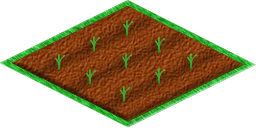
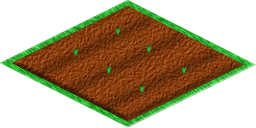
all crops + check bouton only if you have graine

diff --git a/Constant/js/class/Graine.js b/Constant/js/class/Graine.js
@@ -6,33 +6,53 @@ var Graines = (function() {
     var _nb;                //nombre de graine de ce type que le joueur dispose INT
     var _user_id;           //lien vers l'user a qui appartient la graine INT
     var _graines_spec_id;   //lien vers le bon type de graine INT
-     var _DB;
+    var _DB;
 
     function Graines(){
-            _DB = new DB();
+      _DB = new DB();
     };
 
-     Graines.prototype.buyGraine = function(nb, user_id, graines_spec_id, callback){
-         var connection = _DB.connection();
-         var query ='SELECT * FROM Graines WHERE user_id= ' + user_id + ' AND  graines_spec_id = ' + graines_spec_id + ';';
-          connection.query(query,function(err, row, fields) {
+    Graines.prototype.buyGraine = function(nb, user_id, graines_spec_id, callback){
+        var connection = _DB.connection();
+        var query ='SELECT * FROM Graines WHERE user_id= ' + user_id + ' AND  graines_spec_id = ' + graines_spec_id + ';';
+        connection.query(query,function(err, row, fields) {
             if (err) throw err;
-             if( typeof( row[0]) == "undefined"){
+            if( typeof( row[0]) == "undefined"){
                 var query = 'INSERT INTO Graines (nb,user_id, graines_spec_id) VALUES(' + nb + ',' + user_id + ','+ graines_spec_id +');';
                 connection.query(query,function(err, r, fields) {
-                if (err) throw err;
-                callback(true);
-              });
-
-             }else{
+                    if (err) throw err;
+                    callback(true);
+                });
+            }else{
                 connection.query('UPDATE Graines SET nb = nb + '+nb+' WHERE user_id = '+user_id +' AND graines_spec_id = ' +graines_spec_id+ ';' ,function(err, r, fields) {
-                            if(err) throw err;
-                            callback(true);
-                     });
+                    if(err) throw err;
+                    callback(true);
+                });
+            }
+        });
+    };
 
-                 }
-             });
-        };
+    Graines.prototype.checkGrainesOwned = function(user_id, callback){
+        var connection = _DB.connection();
+        var query ='SELECT * FROM Graines WHERE user_id= ' + user_id +';';
+            connection.query(query,function(err, row, fields) {
+                if (err) throw err;
+                var result = new Array();
+                var count = 0;
+                if(typeof(row[0]) != 'undefined'){
+                    for (var i = 0; i < row.length; i++) {
+                        if(row[i].nb > 0){
+                            result[count] = row[i].graines_spec_id+"_"+row[i].nb;
+                            count++;
+                        }
+                    };
+                    callback(result);
+                }else{
+                  callback(false);
+                }
+            });
+
+    };
 
  
 

diff --git a/Constant/index.html b/Constant/index.html
@@ -301,10 +301,28 @@
 
 				<div class="menu_select_options" id="menu_select_plantes_type" style="display:none;">
 					<div>
-						<input id="menu_select_plantes_tomates" class="button_menu_plantes" type="button" value="Planter des tomates" />
+						<input id="menu_select_plantes_pasteque" class="button_menu_plantes" type="button" value="Planter une pasteque" style="display:none;"/>
 					</div>
 					<div>
-						<input id="menu_select_plantes_mais" class="button_menu_plantes" type="button" value="Planter des mais" />
+						<input id="menu_select_plantes_salade" class="button_menu_plantes" type="button" value="Planter des salades" style="display:none;"/>
+					</div>
+					<div>
+						<input id="menu_select_plantes_ananas" class="button_menu_plantes" type="button" value="Planter un ananas" style="display:none;"/>
+					</div>
+					<div>
+						<input id="menu_select_plantes_tomate" class="button_menu_plantes" type="button" value="Planter des tomates" style="display:none;"/>
+					</div>
+					<div>
+						<input id="menu_select_plantes_mais" class="button_menu_plantes" type="button" value="Planter du mais" style="display:none;"/>
+					</div>
+					<div>
+						<input id="menu_select_plantes_melon" class="button_menu_plantes" type="button" value="Planter un melon" style="display:none;"/>
+					</div>
+					<div>
+						<input id="menu_select_plantes_raisin" class="button_menu_plantes" type="button" value="Planter du raisin" style="display:none;"/>
+					</div>
+					<div>
+						<input id="menu_select_plantes_carotte" class="button_menu_plantes" type="button" value="Planter des carottes" style="display:none;"/>
 					</div>
 					<input type="button" value="Termine" class="end_menu_build">
 				</div>
@@ -314,6 +332,9 @@
 					</div>
 					<div>
 						<input id="menu_select_batiments_grange" class="button_menu_batiments" type="button" value="Construire une grange" />
+					</div>
+					<div>
+						<input id="menu_select_batiments_chambre" class="button_menu_batiments" type="button" value="Construire une chambre" />
 					</div>
 					<input type="button" value="Termine" class="end_menu_build">
 				</div>

diff --git a/Constant/js/client.js b/Constant/js/client.js
@@ -42,13 +42,37 @@
 	var Plantes = {
 		name : '',
 		sprite : {
-			tomates : {
+			pasteque : {
 				id : 1,
 				sprite_id : 10
 			},
-			mais : {
+			salade : {
 				id : 2,
 				sprite_id : 20
+			},
+			ananas : {
+				id : 3,
+				sprite_id : 30
+			},
+			tomate : {
+				id : 4,
+				sprite_id : 40
+			},
+			mais : {
+				id : 5,
+				sprite_id : 50
+			},
+			melon : {
+				id : 6,
+				sprite_id : 60
+			},
+			raisin : {
+				id : 7,
+				sprite_id : 70
+			},
+			carotte : {
+				id : 8,
+				sprite_id : 80
 			}
 		}
 	}
@@ -168,6 +192,7 @@
 		User.own_tile = map.own_tile;
 		User.enemi_tile = map.enemi_tile;
 		console.log(User);
+		socket.emit('checkGrainesOwned', '');
 	});
 
 	var loadmap = function(map) {
@@ -490,6 +515,44 @@
 		}
 		$("#tileInfo").html(text);
 		$("#tileInfo").fadeIn('fast');
+	});
+
+	socket.on('cropsButton', function(data){
+		var name = 'undefined';
+		for (var i = 0; i < data.length; i++) {
+			var value = data[i].split("_");
+			var graines_spec_id = value[0];
+			var nb = value[1];
+			console.log(graines_spec_id);
+			switch(graines_spec_id)
+			{
+				case '1':
+				  $("#menu_select_plantes_pasteque").css('display', 'relative');
+				  break;
+				case '2':
+				  $("#menu_select_plantes_salade").css('display', 'relative');
+				  break;
+				case '3':
+				  $("#menu_select_plantes_ananas").css('display', 'relative');
+				  break;
+				case '4':
+				  $("#menu_select_plantes_tomate").css('display', 'relative');
+				  break;
+				case '5':
+				  $("#menu_select_plantes_mais").css('display', 'relative');
+				  break;
+				case '6':
+				  $("#menu_select_plantes_melon").css('display', 'relative');
+				  break;
+				case '7':
+				  $("#menu_select_plantes_raisin").css('display', 'relative');
+				  break;
+				case '8':
+				  $("#menu_select_plantes_carotte").css('display', 'relative');
+				  break;
+			}
+			
+		}
 	});
 
 	socket.on('validStorage', function(data){

diff --git a/Constant/server.js b/Constant/server.js
@@ -85,7 +85,14 @@ io.sockets.on('connection', function(socket){
 		socket.emit('isRegistered');
 	});
 		
-
+	socket.on('checkGrainesOwned', function(ok){
+		graine = new Graine();
+		graine.checkGrainesOwned(user.getId(), function(cb){
+			if(cb){
+				socket.emit('cropsButton', cb);
+			}
+		});
+	})
 
 	socket.on('userMove', function(data){
 		user.move(data.x, data.y);
